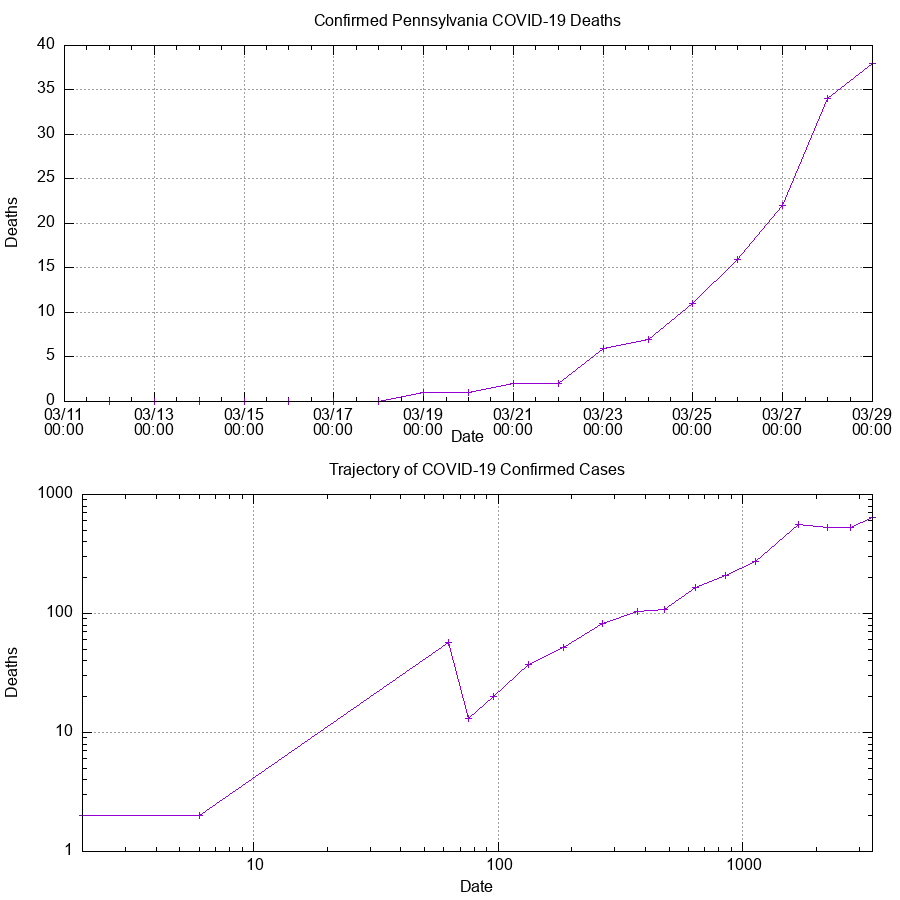
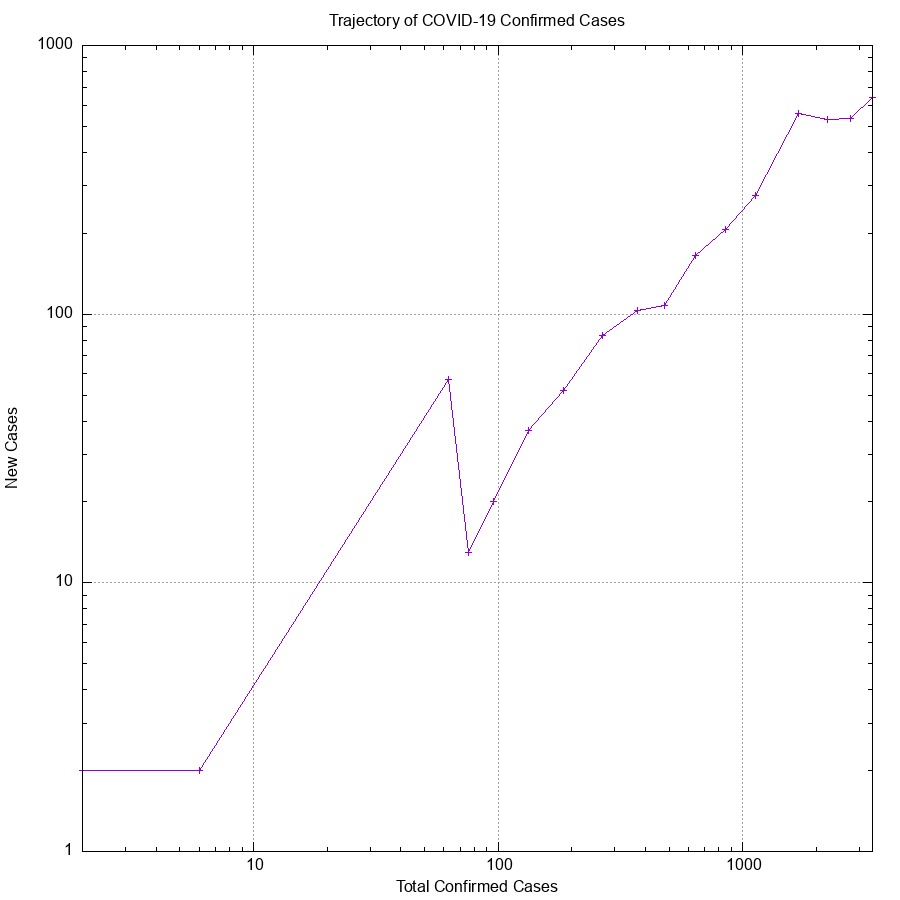
Reorder graphs

diff --git a/README.md b/README.md
@@ -9,18 +9,6 @@ The script can optionally highlight certain counties which you may be interested
 in- in my case, I'm interested in Lancaster and Schuylkill counties.
 If you wish to highlight different counties, simply update the array in the script.
 
-## Current Cases
-
-Below is a graph of confirmed cases generated using the most recent available data
-and `gnuplot`.
-
-![Graph](cases.png)
-
-![Trajectory](trajectory.png)
-
-For more information on how to read the trajectory graph,
-please see this excellent video by [MinutePhysics](https://www.youtube.com/watch?v=54XLXg4fYsc)
-
 ## Using
 
 To use this script, simply run it:
@@ -42,7 +30,12 @@ python covid.py
 affect the bandwidth of the host. Please do not use this script to poll the
 site more often than once every hour or so. The data does not change that often.
 
-The scripts and data used to generate this graph are also included in the repository.
+The scripts and data used to generate the graphs are also included in the
+repository.
+The data is not automatically populated in to the `gnuplot` data file, it is
+instead calculated separately following the daily PA Dept of Health update,
+and provided as described in this repository, so that careful attention can be
+provided to ensure validity.
 Simply install `gnuplot` and run:
 
 ```
@@ -50,6 +43,19 @@ gnuplot plot_PA_Cases.gpi
 ```
 
 The image file will be updated at `cases.png`
+
+## Current Cases
+
+Below are graphs of confirmed cases, fatalities, and other potentially useful
+data generated using the most recent available data and `gnuplot`.
+
+![Graph](cases.png)
+
+![Trajectory](trajectory.png)
+
+For more information on how to read the trajectory
+graph, please see this excellent video by Henry Reich of
+[MinutePhysics](https://www.youtube.com/watch?v=54XLXg4fYsc).
 
 ## Sample Output
 ```
